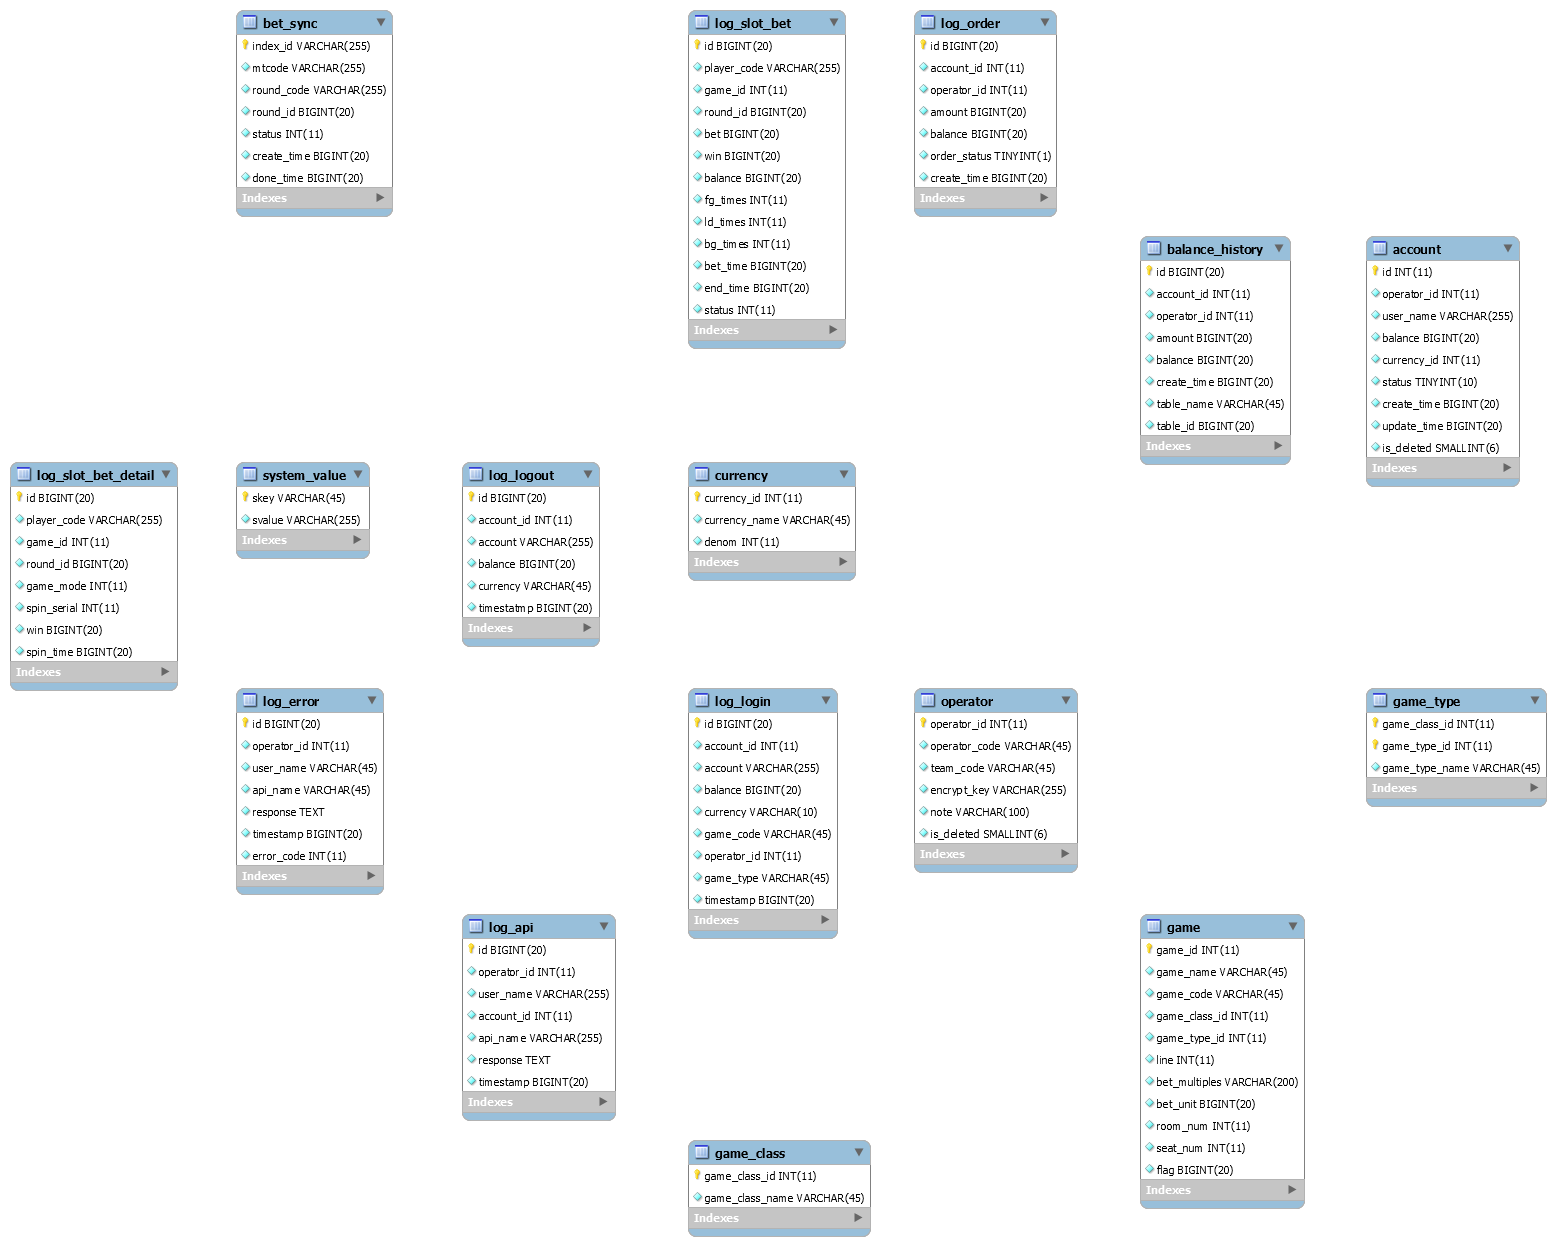
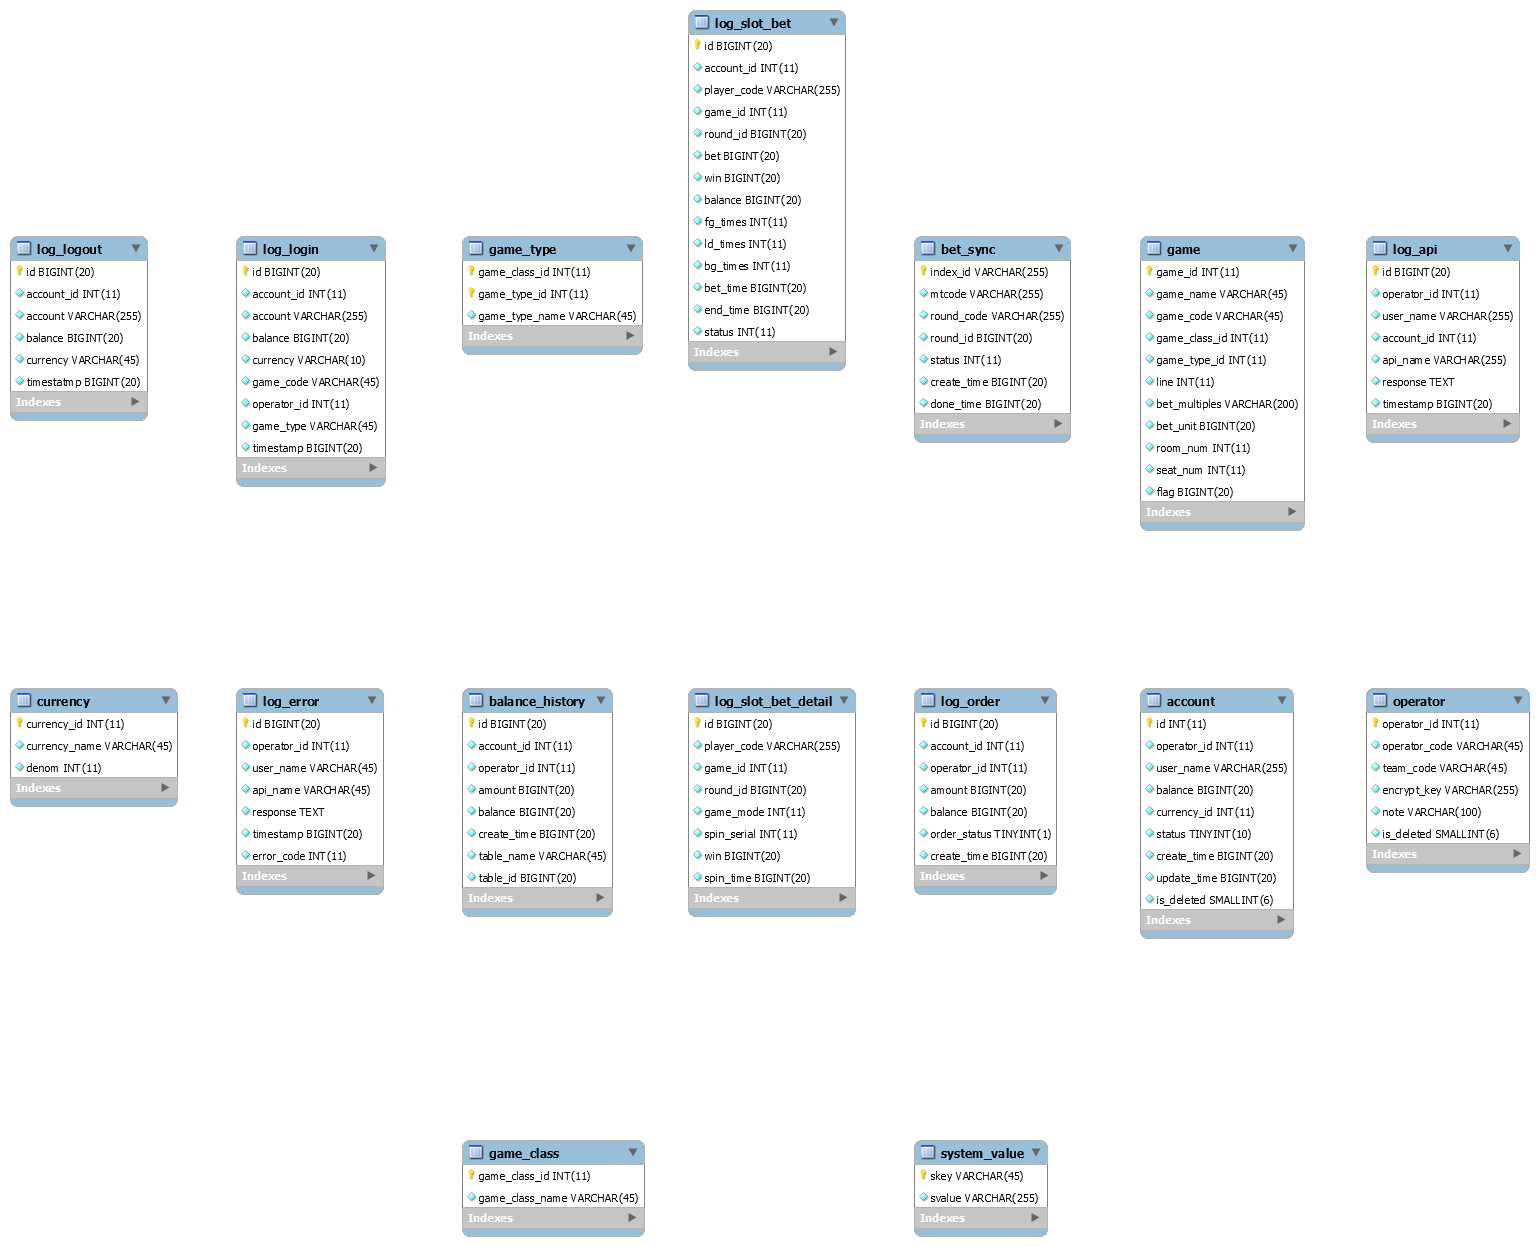
no message

diff --git a/digame_db.html b/digame_db.html
@@ -336,6 +336,7 @@
 <table><thead><tr class="header"><th align="left">Column</th><th align="left">Data type</th><th align="left">Attribute</th><th align="left">Default</th><th align="left">Description</th></tr></thead><tbody>
 
 <tr><td><code>id</code></td><td>BIGINT</td><td>PRIMARY, AUTO INCREMENTS, NOT NULL</td><td> </td><td>流水號</td></tr>
+<tr><td><code>account_id</code></td><td>INT</td><td>NOT NULL</td><td> </td><td>帳號ID</td></tr>
 <tr><td><code>player_code</code></td><td>VARCHAR(255)</td><td>NOT NULL</td><td> </td><td>玩家代碼<br />cq9用</td></tr>
 <tr><td><code>game_id</code></td><td>INT</td><td>NOT NULL</td><td> </td><td>遊戲ID</td></tr>
 <tr><td><code>round_id</code></td><td>BIGINT</td><td>NOT NULL, UNIQUE</td><td> </td><td>局ID</td></tr>

diff --git a/digame_db.md b/digame_db.md
@@ -1,8 +1,23 @@
-# Schema documentation
+# Schema documentation<span id="標題"></span>
 
-Generated by MySQL Workbench Model Documentation v1.0.0 - Copyright (c) 2015 Hieu Le
+<a href="#account">account</a><br />
+<a href="#balance_history">balance_history</a><br />
+<a href="#bet_sync">bet_sync</a><br />
+<a href="#currency">currency</a><br />
+<a href="#game">game</a><br />
+<a href="#game_class">game_class</a><br />
+<a href="#game_type">game_type</a><br />
+<a href="#log_api">log_api</a><br />
+<a href="#log_error">log_error</a><br />
+<a href="#log_login">log_login</a><br />
+<a href="#log_logout">log_logout</a><br />
+<a href="#log_order">log_order</a><br />
+<a href="#log_slot_bet">log_slot_bet</a><br />
+<a href="#log_slot_bet_detail">log_slot_bet_detail</a><br />
+<a href="#operator">operator</a><br />
+<a href="#system_value">system_value</a><br />
 
-## Table: `account`
+## Table: `account`<span id="account"></span>&nbsp;&nbsp;&nbsp;&nbsp;<a href="#標題">(回到標題)</a>
 
 ### Description: 
 
@@ -30,7 +45,7 @@ Generated by MySQL Workbench Model Documentation v1.0.0 - Copyright (c) 2015 Hie
 | PRIMARY | `id` | PRIMARY |   |
 
 
-## Table: `balance_history`
+## Table: `balance_history`<span id="balance_history"></span>&nbsp;&nbsp;&nbsp;&nbsp;<a href="#標題">(回到標題)</a>
 
 ### Description: 
 
@@ -57,7 +72,7 @@ Generated by MySQL Workbench Model Documentation v1.0.0 - Copyright (c) 2015 Hie
 | PRIMARY | `id` | PRIMARY |   |
 
 
-## Table: `bet_sync`
+## Table: `bet_sync`<span id="bet_sync"></span>&nbsp;&nbsp;&nbsp;&nbsp;<a href="#標題">(回到標題)</a>
 
 ### Description: 
 
@@ -83,7 +98,7 @@ cq9待同步注單的資料
 | PRIMARY | `index_id` | PRIMARY |   |
 
 
-## Table: `currency`
+## Table: `currency`<span id="currency"></span>&nbsp;&nbsp;&nbsp;&nbsp;<a href="#標題">(回到標題)</a>
 
 ### Description: 
 
@@ -105,7 +120,7 @@ cq9待同步注單的資料
 | PRIMARY | `currency_id` | PRIMARY |   |
 
 
-## Table: `game`
+## Table: `game`<span id="game"></span>&nbsp;&nbsp;&nbsp;&nbsp;<a href="#標題">(回到標題)</a>
 
 ### Description: 
 
@@ -122,7 +137,7 @@ cq9待同步注單的資料
 | `game_type_id` | INT | Not null |   | 遊戲類型ID<br />類別下的子類型 |
 | `line` | INT | Not null |   | 線數<br />slot使用 |
 | `bet_multiples` | VARCHAR(200) | Not null |   | 押注乘數<br />slot使用<br />逗點分隔的int字串 |
-| `bet_unit` | BIGINT | Not null |   | 押注單位<br />slot使用<br />bet_unit x bet_multiple x line = total bet |
+| `bet_unit` | BIGINT | Not null |   | 押注單位\<br />slot使用\<br />bet_unit x bet_multiple x line = total bet |
 | `room_num` | INT | Not null |   | 預開的房間數 |
 | `seat_num` | INT | Not null |   | 預開的座位數 |
 | `flag` | BIGINT | Not null |   | 旗標<br />每一個bit表示一個開關<br />0: 遊戲是否開放 |
@@ -135,7 +150,7 @@ cq9待同步注單的資料
 | PRIMARY | `game_id` | PRIMARY |   |
 
 
-## Table: `game_class`
+## Table: `game_class`<span id="game_class"></span>&nbsp;&nbsp;&nbsp;&nbsp;<a href="#標題">(回到標題)</a>
 
 ### Description: 
 
@@ -156,7 +171,7 @@ cq9待同步注單的資料
 | PRIMARY | `game_class_id` | PRIMARY |   |
 
 
-## Table: `game_type`
+## Table: `game_type`<span id="game_type"></span>&nbsp;&nbsp;&nbsp;&nbsp;<a href="#標題">(回到標題)</a>
 
 ### Description: 
 
@@ -178,7 +193,7 @@ cq9待同步注單的資料
 | PRIMARY | `game_class_id`, `game_type_id` | PRIMARY |   |
 
 
-## Table: `log_api`
+## Table: `log_api`<span id="log_api"></span>&nbsp;&nbsp;&nbsp;&nbsp;<a href="#標題">(回到標題)</a>
 
 ### Description: 
 
@@ -204,7 +219,7 @@ api request/response紀錄
 | PRIMARY | `id` | PRIMARY |   |
 
 
-## Table: `log_error`
+## Table: `log_error`<span id="log_error"></span>&nbsp;&nbsp;&nbsp;&nbsp;<a href="#標題">(回到標題)</a>
 
 ### Description: 
 
@@ -230,7 +245,7 @@ api request/response紀錄
 | PRIMARY | `id` | PRIMARY |   |
 
 
-## Table: `log_login`
+## Table: `log_login`<span id="log_login"></span>&nbsp;&nbsp;&nbsp;&nbsp;<a href="#標題">(回到標題)</a>
 
 ### Description: 
 
@@ -258,7 +273,7 @@ api request/response紀錄
 | PRIMARY | `id` | PRIMARY |   |
 
 
-## Table: `log_logout`
+## Table: `log_logout`<span id="log_logout"></span>&nbsp;&nbsp;&nbsp;&nbsp;<a href="#標題">(回到標題)</a>
 
 ### Description: 
 
@@ -283,7 +298,7 @@ api request/response紀錄
 | PRIMARY | `id` | PRIMARY |   |
 
 
-## Table: `log_order`
+## Table: `log_order`<span id="log_order"></span>&nbsp;&nbsp;&nbsp;&nbsp;<a href="#標題">(回到標題)</a>
 
 ### Description: 
 
@@ -309,7 +324,7 @@ api request/response紀錄
 | PRIMARY | `id` | PRIMARY |   |
 
 
-## Table: `log_slot_bet`
+## Table: `log_slot_bet`<span id="log_slot_bet"></span>&nbsp;&nbsp;&nbsp;&nbsp;<a href="#標題">(回到標題)</a>
 
 ### Description: 
 
@@ -320,6 +335,7 @@ slot的注單<br />一局會有一個注單
 | Column | Data type | Attributes | Default | Description |
 | --- | --- | --- | --- | ---  |
 | `id` | BIGINT | PRIMARY, Auto increments, Not null |   | 流水號 |
+| `account_id` | INT | Not null |   | 帳號ID |
 | `player_code` | VARCHAR(255) | Not null |   | 玩家代碼<br />cq9用 |
 | `game_id` | INT | Not null |   | 遊戲ID |
 | `round_id` | BIGINT | Not null, Unique |   | 局ID |
@@ -342,7 +358,7 @@ slot的注單<br />一局會有一個注單
 | round_id_UNIQUE | `round_id` | UNIQUE |   |
 
 
-## Table: `log_slot_bet_detail`
+## Table: `log_slot_bet_detail`<span id="log_slot_bet_detail"></span>&nbsp;&nbsp;&nbsp;&nbsp;<a href="#標題">(回到標題)</a>
 
 ### Description: 
 
@@ -370,7 +386,7 @@ slot的細單<br />每個spin對應一個細單
 | round_id_UNIQUE | `round_id` | UNIQUE |   |
 
 
-## Table: `operator`
+## Table: `operator`<span id="operator"></span>&nbsp;&nbsp;&nbsp;&nbsp;<a href="#標題">(回到標題)</a>
 
 ### Description: 
 
@@ -395,7 +411,7 @@ slot的細單<br />每個spin對應一個細單
 | PRIMARY | `operator_id` | PRIMARY |   |
 
 
-## Table: `system_value`
+## Table: `system_value`<span id="system_value"></span>&nbsp;&nbsp;&nbsp;&nbsp;<a href="#標題">(回到標題)</a>
 
 ### Description: 
 
